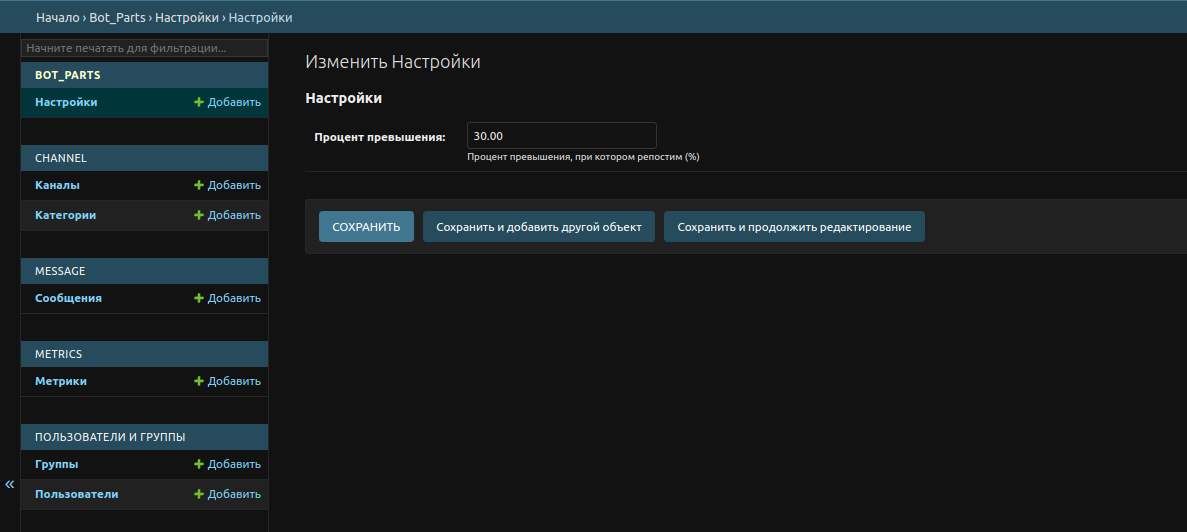
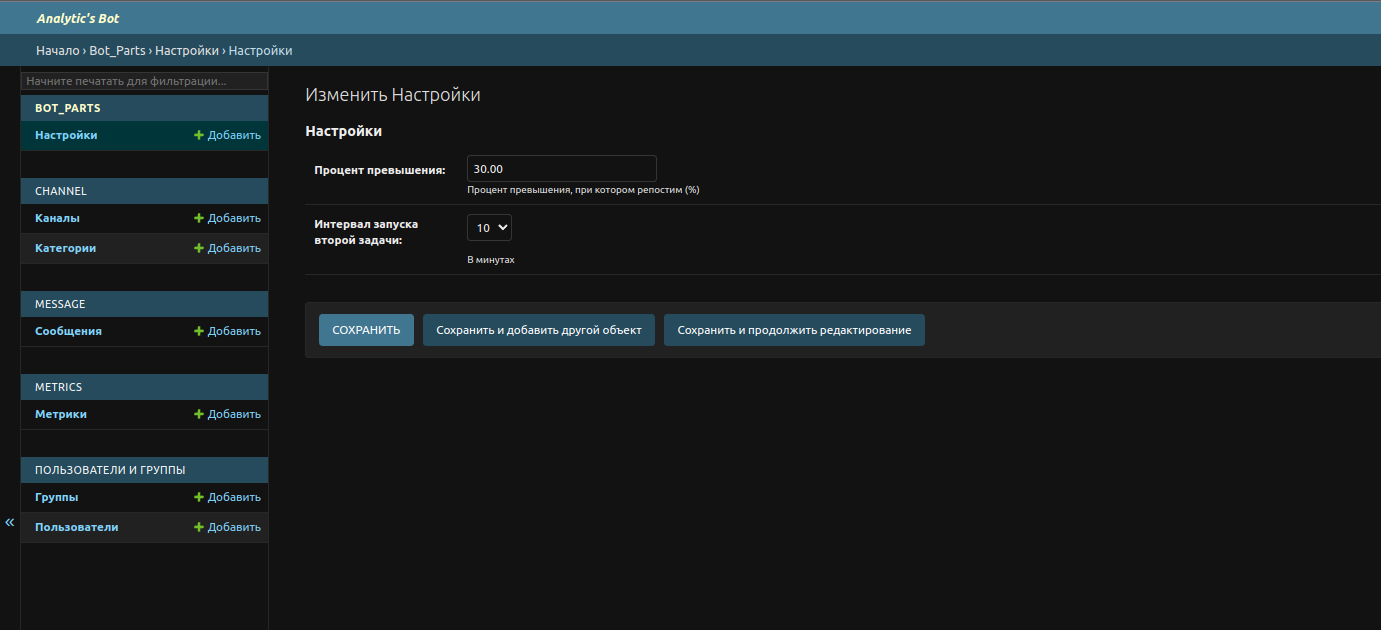
added STARTING_INTERVAL_SECOND_TASK to external settings

Changed region(s): [[0.0, 0.0, 1.0, 0.9624], [0.1247, 0.391, 0.2182, 0.4211], [0.0312, 0.391, 0.0935, 0.4211]]

diff --git a/templates/admin/base_site.html b/templates/admin/base_site.html
@@ -1,0 +1,40 @@
+{% extends 'admin/base.html' %}
+{% load i18n static %}<!DOCTYPE html>
+{% get_current_language as LANGUAGE_CODE %}{% get_current_language_bidi as LANGUAGE_BIDI %}
+{% load static %}
+{% block title %}Analytic's Bot{% endblock %}
+{% block header %}
+    <div id="header">
+        <div id="branding">
+            {% block branding %}<b><i>Analytic's Bot</i></b>{% endblock %}
+        </div>
+        {% block usertools %}
+            {% if has_permission %}
+                <div id="user-tools">
+                    {% block welcome-msg %}
+                        {% translate 'Welcome,' %}
+                        <strong>{% firstof user.get_short_name user.get_username %}</strong>.
+                    {% endblock %}
+                    {% block userlinks %}
+                        {% if user.is_active and user.is_staff %}
+                            {% url 'django-admindocs-docroot' as docsroot %}
+                            {% if docsroot %}
+                                <a href="{{ docsroot }}">{% translate 'Documentation' %}</a> /
+                            {% endif %}
+                        {% endif %}
+                        {% if user.has_usable_password %}
+                            <a href="{% url 'admin:password_change' %}">{% translate 'Change password' %}</a> /
+                        {% endif %}
+                        <form id="logout-form" method="post" action="{% url 'admin:logout' %}">
+                            {% csrf_token %}
+                            <button type="submit">{% translate 'Log out' %}</button>
+                        </form>
+                        {% include "admin/color_theme_toggle.html" %}
+                    {% endblock %}
+                </div>
+            {% endif %}
+        {% endblock %}
+        {% block nav-global %}{% endblock %}
+    </div>
+{% endblock %}
+

diff --git a/bot_parts/management/commands/run_bot.py b/bot_parts/management/commands/run_bot.py
@@ -17,6 +17,8 @@ from bot_parts.utils import get_reactions_count
 from channel.models import Channel as DjChannel
 from message.models import Message as DjMessage
 
+second_task = None
+
 
 class Command(BaseCommand):
     help = '''
@@ -43,6 +45,7 @@ class Command(BaseCommand):
 
 
 async def main(phone: str, api_id: int, api_hash: str):
+    global second_task
     client = TelegramClient(phone, api_id, api_hash)
     scheduler = AsyncIOScheduler(timezone="Europe/Moscow")
     scheduler.add_job(
@@ -53,9 +56,9 @@ async def main(phone: str, api_id: int, api_hash: str):
             "one_minute": True,
         }
     )
-    scheduler.add_job(
+    second_task = scheduler.add_job(
         periodic_tasks.check_messages,
-        trigger=IntervalTrigger(minutes=5),
+        trigger=IntervalTrigger(minutes=settings.STARTING_INTERVAL_SECOND_TASK),
         kwargs={
             "client": client,
             "one_minute": False,
@@ -79,7 +82,25 @@ async def main(phone: str, api_id: int, api_hash: str):
                     setattr(settings, key.upper(), value)
                     settings_for_send += f"{key.upper()}: {value}\n"
 
-            message = 'Настройки успешно вступили в силу.\n' + settings_for_send
+            message = (
+                'Настройки успешно вступили в силу.\n'
+                'Для перезапуска задачи с новым интервалом отправьте !restart_task\n\n'
+                f'Текущие настройки:\n{settings_for_send}'
+            )
+            await client.send_message('me', message)
+
+        if event.message.message == '!restart_task':
+            global second_task
+            scheduler.remove_job(second_task.id)
+            second_task = scheduler.add_job(
+                periodic_tasks.check_messages,
+                trigger=IntervalTrigger(minutes=settings.STARTING_INTERVAL_SECOND_TASK),
+                kwargs={
+                    "client": client,
+                    "one_minute": False,
+                }
+            )
+            message = f'Задача успешно перезапущена с интервалом в {settings.STARTING_INTERVAL_SECOND_TASK} минут'
             await client.send_message('me', message)
 
     @client.on(NewMessage(incoming=True))

diff --git a/bot_parts/models.py b/bot_parts/models.py
@@ -21,12 +21,19 @@ class SingletonModel(models.Model):
 
 
 class ExternalSettings(SingletonModel):
+    interval_choices = ((5, 5), (10, 10))
     additional_percents_for_repost = models.DecimalField(
         verbose_name='Процент превышения',
         help_text='Процент превышения, при котором репостим (%)',
         max_digits=5,
         decimal_places=2,
         default=30
+    )
+    starting_interval_second_task = models.IntegerField(
+        verbose_name='Интервал запуска второй задачи',
+        help_text='В минутах',
+        choices=interval_choices,
+        default=5
     )
 
     class Meta:
@@ -39,6 +46,8 @@ class ExternalSettings(SingletonModel):
 
 try:
     ext_settings, _ = ExternalSettings.objects.get_or_create(pk=1)
-    settings.ADDITIONAL_PERCENTS_FOR_REPOST = ext_settings.additional_percents_for_repost
+    for key, value in ext_settings.__dict__.items():
+        if key != 'id' and not key.startswith('_'):
+            setattr(settings, key.upper(), value)
 except OperationalError:
     pass

diff --git a/bot_parts/periodic_tasks.py b/bot_parts/periodic_tasks.py
@@ -31,12 +31,12 @@ async def update_uploaded_channels(client: TelegramClient):
 async def check_messages(client: TelegramClient, one_minute: bool = True):
     if one_minute:
         filter_kwargs = {
-            "metrics_count__lt": 5  # 5 раз трекаем по минуте
+            "metrics_count__lt": 5  # 5 раз трекаем с интервалом минута
         }
     else:
         filter_kwargs = {
-            "metrics_count__gte": 5,  # 10 раз трекаем по 5 минут
-            "metrics_count__lt": 15,
+            "metrics_count__gte": 5,  # 10 раз трекаем с интервалом в 5 минут или 5 раз с интервалом в 10
+            "metrics_count__lt": 15 if settings.STARTING_INTERVAL_SECOND_TASK == 5 else 10,
         }
     channels = (
         DjChannel.objects

diff --git a/bot_parts/migrations/0002_externalsettings_starting_interval_second_task.py b/bot_parts/migrations/0002_externalsettings_starting_interval_second_task.py
@@ -1,0 +1,18 @@
+# Generated by Django 4.2.7 on 2023-11-05 22:10
+
+from django.db import migrations, models
+
+
+class Migration(migrations.Migration):
+
+    dependencies = [
+        ('bot_parts', '0001_initial'),
+    ]
+
+    operations = [
+        migrations.AddField(
+            model_name='externalsettings',
+            name='starting_interval_second_task',
+            field=models.IntegerField(choices=[(5, 5), (10, 10)], default=5, help_text='В минутах', verbose_name='Интервал запуска второй задачи'),
+        ),
+    ]

diff --git a/bot_parts/admin.py b/bot_parts/admin.py
@@ -15,7 +15,7 @@ from bot_parts.models import ExternalSettings
 @admin.register(ExternalSettings)
 class SettingsAdmin(admin.ModelAdmin):
     list_display = (
-        "edit", 'additional_percents_for_repost'
+        "edit", 'additional_percents_for_repost', 'starting_interval_second_task'
     )
     list_per_page = 1
 

diff --git a/README.md b/README.md
@@ -63,8 +63,10 @@ sudo apt install pip docker docker-compose -y && sudo docker-compose up
 - При обновлении каждого канала укажите созданную подходящую категорию и включите отслеживание.
 <img src="readme_images/enable_tracking.png"/>
 
-5) В вынесенных настройках можно поправить процент превышения.
+5) В вынесенных настройках можно поправить процент превышения и интервал запуска второй задачи (5/10 минут)
 <img src="readme_images/change_settings.png"/>
 
 ### ВАЖНО.
 Чтобы настройки вступили в силу в боте: отправьте в saved messages (чат с самим собой) с авторизированного аккаунта команду ```!update_settings```
+Чтобы перезапустить задачу с новым интервалом - команда ```!restart_task```<br>
+<img src="readme_images/restart_task.png"/>
